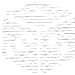
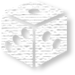
Graphics, Color, Spacing
Still tweaking spacing. Added a bit of shadow to most of the graphics
and to the headings. Changed background colors.

diff --git a/index.html b/index.html
@@ -13,10 +13,10 @@
 		</div>
 		<div class="spacer"></div>
 		<div id="about"> <!-- Summary/Intro about me and my programming. -->
-			<table>
+			<table class = "border">
 				<tr>
 					<td class="pic">
-						<img src="public/images/eyeglasses2.png">
+						<img src="public/images/eyeglasses.png">
 					</td>
 					<td class="text">
 						<p>Hello!</p>
@@ -33,7 +33,7 @@
 		</div>
 		<div class="spacer"></div>
 		<div id="skills"> <!-- Fancy this up with some type of proficiency meter???, cute little icons???, nifty div circles??? -->
-			<table>
+			<table class = "border">
 				<tr>
 					<td class="heading">
 						<h1>Skills</h1>
@@ -150,20 +150,23 @@
             			</table>
             		</td>
             		<td class="pic">
-            			<img src="public/images/computer2.png">
+            			<img src="public/images/computer.png">
             		</td>
             	</tr>
             </table>            
 		</div>
 		<div class="spacer"></div>
 		<div id="projects"> <!-- Links to projects, GitHub. -->
-			<table>
+			<table class = "border">
 				<tr>
 					<td class="icon">
-						<img src="public/images/tools_s.png">
+						<img src="public/images/tools.png">
 					</td>
 					<td class="text">
-						<p><a href="https://github.com/katiejo72" target="_blank">GitHub</a></p>
+						<ul>
+							<li><a href="https://github.com/katiejo72" target="_blank">GitHub</a></li>
+							<li>Currently this site is simply static HTML and CSS. I expect it shall evolve as I continue learning! I intend to keep it fairly minimal, but want to continue making it better. All of my current projects and practice work, including this site, can be seen on GitHub.</li>
+						</ul>
 					</td>
 					<td class="heading right">
 						<h1>Projects</h1>
@@ -173,7 +176,7 @@
 		</div>
 		<div class="spacer"></div>
 		<div id="experience"> <!-- That fairly standard industry experience section. -->
-			<table>
+			<table class = "border">
 				<tr>
 					<td class="heading">
 						<h1>Experience</h1>
@@ -198,7 +201,7 @@
 		</div>
 		<div class="spacer"></div>
 		<div id="education"> <!-- That fairly standard education section. Boiler Up! -->
-			<table>
+			<table class = "border">
 				<tr>
 					<td class="pic">
 						<img src="public/images/PurdueBellTower.png">
@@ -218,7 +221,7 @@
 		</div>
 		<div class="spacer"></div>
 		<div id="hobbies"> <!-- A few of my favorite non-programming hobbies. -->
-			<table>
+			<table class = "border">
 				<tr>
 					<td class="heading">
 						<h1>Hobbies</h1>
@@ -227,7 +230,7 @@
 						<img src="public/images/controller.png">
 					</td>
 					<td class="icon">
-						<img src="public/images/open_book2.png">
+						<img src="public/images/open_book.png">
 					</td>
 					<td class="icon">
 						<img src="public/images/music.png">
@@ -238,15 +241,12 @@
 					<td class="icon">
 						<img src="public/images/tv.png">
 					</td>
-					<td class="icon">
-						<img src="public/images/tree.png">
-					</td>
 				</tr>
 			</table>
 		</div>
 		<div class="spacer"></div>
 		<div id="contact"> <!-- Methods of contact. I.E. email, linkedin, twitter???, etc. -->
-			<table>
+			<table class = "border">
 				<tr>
 					<td class="icon">
 						<img src="public/images/at.png">

diff --git a/public/css/stylesheet.css b/public/css/stylesheet.css
@@ -6,16 +6,23 @@ body {
 	background-attachment: fixed;
 	font-family: Ubuntu, sans-serif;
 	font-size: 17px;
+	/* text-shadow: 2px 2px 5px #111111; */
 }
 
 
 /* content sections shared stylings */
 div {
-	box-shadow: 0px 10px 10px #888888;
+	box-shadow: 0px 10px 10px #999999;
 	margin-right: -1%;
 	margin-left: -1%;
 	color: white;
+	padding-top: 10px;
+	padding-bottom: 10px;
 }
+
+/* .border {
+	border: 2px ridge white;
+} */
 
 
 /* links */
@@ -29,20 +36,20 @@ a:hover {
 }
 
 a:visited {
-	color: #808080;
+	color: #B0B0B0;
 }
 
 
 /* spacer between content sections */
 .spacer {
-	height: 75px;
+	height: 20px;
 	box-shadow: none;
 }
 
 
 /* header section */
 #header {
-	background-color: #00CED1;
+	background-color: #48D1CC;
 	padding: 10px 40px;
 }
 
@@ -51,6 +58,7 @@ a:visited {
 	font-size: 60px;
 	margin-top: 10px;
 	margin-bottom: 10px;
+	text-shadow: 2px 2px 5px #111111;
 }
 
 #title {
@@ -63,36 +71,37 @@ h1 {
 	font-family: 'Fredericka the Great', cursive;
 	font-size: 40px;
 	font-weight: normal;
+	text-shadow: 2px 2px 5px #111111;
 }
 
 
 /* content section individual stylings */
 #about {
-	background-color: #808080;
+	background-color: #000020;
 }
 
 #skills {
-	background-color: #9ACD32;
+	background-color: #008080;
 }
 
 #projects {
-	background-color: #69D2E7;
+	background-color: #000020;
 }
 
 #experience {
-	background-color: #800080;
+	background-color: #008080;
 }
 
 #education {
-	background-color: #DAA520;
+	background-color: #000020;
 }
 
 #hobbies {
-	background-color: #6B8E23;
+	background-color: #FA8072;
 }
 
 #contact {
-	background-color: #008080;
+	background-color: #48D1CC;
 	margin-bottom: 20px;
 }
 
@@ -106,6 +115,8 @@ table {
 	width: 98%;
 	margin-left: 1%;
 	margin-right: 1%;
+	padding-right: 40px;
+	padding-left: 40px;
 }
 
 td {
@@ -134,7 +145,6 @@ td {
 
 .right {
 	text-align: right;
-	padding-right: 30px;
 }
 
 .star {
